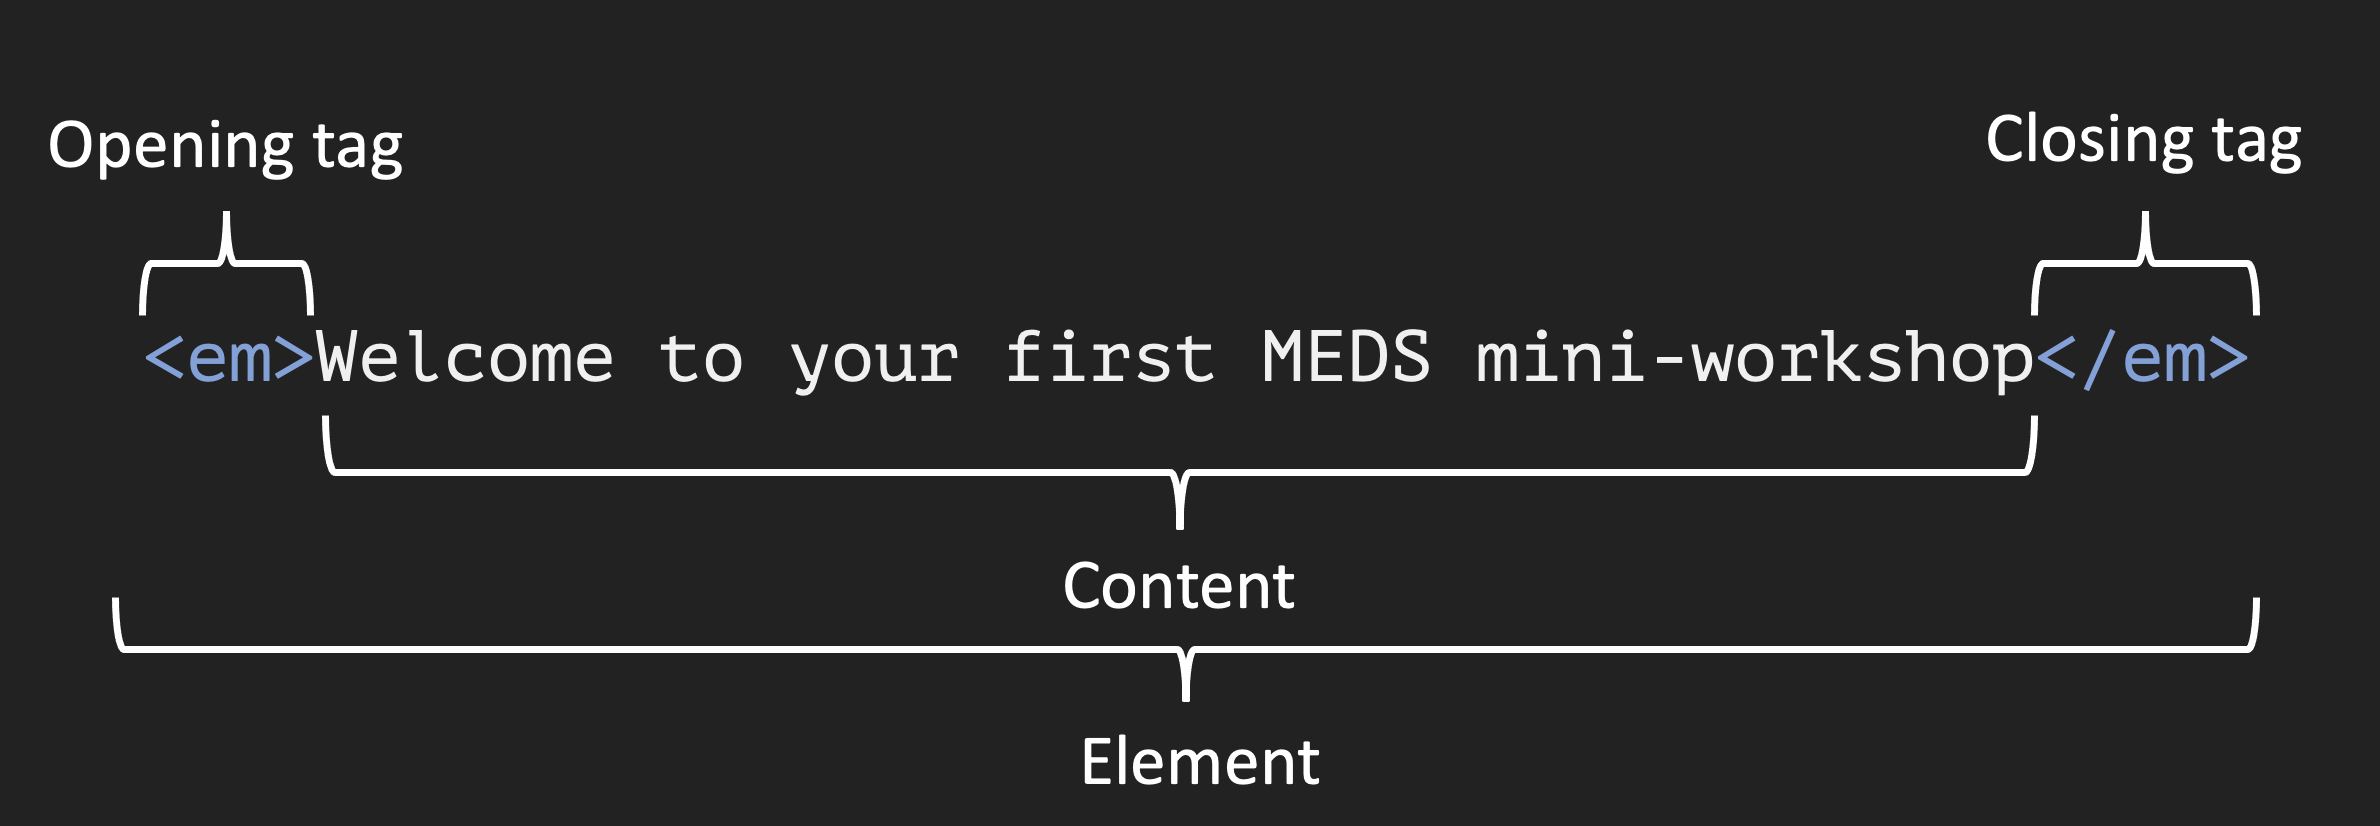
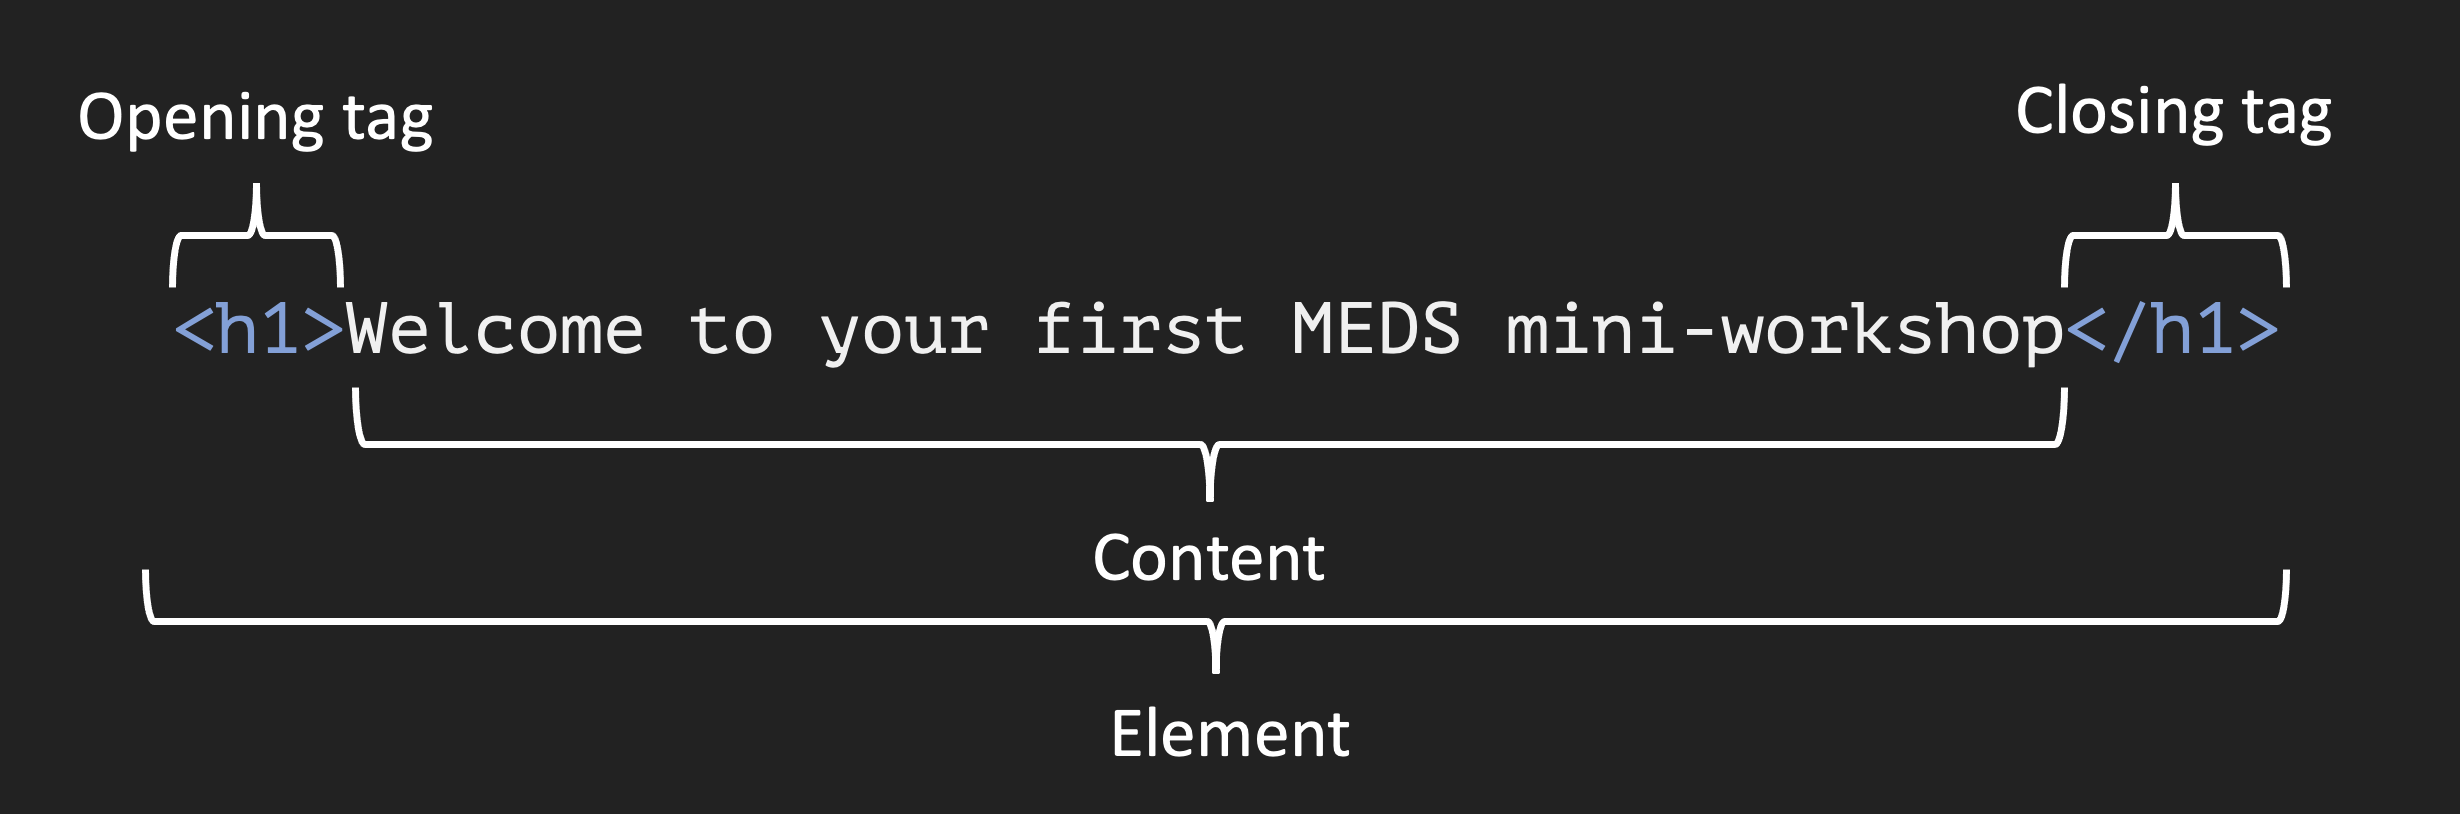
going to remove the github css exploration example and replace it with an example using my distill site. wanted to save progress in case I don't like it in the end...

diff --git a/index.html b/index.html
@@ -34,7 +34,15 @@ class: center, middle, inverse, title-slide
 ---
 ## But without some additional modifications, it can be challenging to make *your* website stand out from the rest. 
 
-In order to make those changes, we need to dive a bit into the world of CSS. Some of you may have already heard of CSS, but what really is it? Let's dive in.
+&lt;br&gt;
+
+.center[
+&lt;img src="img/unique.gif" width="55%" /&gt;
+]
+
+&lt;br&gt;
+
+In order to make those changes, we need to dive a bit into the world of **CSS**. Some of you may have already heard of and/or used CSS -- that's great! We're going to spend a few minutes first learning about what makes a web page...look like a web page, then apply what we learn to our own `{distill}` sites.
 
 ---
 ## HTML &amp; CSS are the building blocks of web pages
@@ -111,14 +119,10 @@ HTML consists of a series of **elements**, comprised of **opening tags** and **c
 &lt;img src="img/element.png" width="60%" /&gt;
 ]
 
-.center[
-&lt;span style="color: #5F9EA0;"&gt;Rendered as:&lt;/span&gt; &lt;em&gt;Welcome to your first MEDS mini-workshop&lt;/em&gt;
-]
-
 &lt;br&gt;
 
 .footnote[
-In R Markdown syntax: `*Welcome to your first MEDS mini-workshop*` --&gt; *Welcome to your first MEDS mini-workshop*
+In R Markdown syntax: `# Welcome to your first MEDS mini-workshop`
 
 Source: [“Getting Started with HTML - Learn Web DEVELOPMENT: MDN.” Learn Web Development | MDN, developer.mozilla.org/en-US/docs/Learn/HTML/Introduction_to_HTML/Getting_started.](https://developer.mozilla.org/en-US/docs/Learn/HTML/Introduction_to_HTML/Getting_started) 
 ]
@@ -137,22 +141,28 @@ You can also *nest* elements. Remember to close out tags from the inside-out to 
 &lt;img src="img/nested_elements.png" width="60%" /&gt;
 ]
 
-.center[
-&lt;span style="color: #5F9EA0;"&gt;Rendered as:&lt;/span&gt; &lt;em&gt;Welcome to your first &lt;strong&gt;MEDS&lt;/strong&gt; mini-workshop&lt;/em&gt;
-]
-
 &lt;br&gt;
 
 .footnote[
-In R Markdown syntax: `*Welcome to your first **MEDS** mini-workshop*` --&gt; *Welcome to your first **MEDS** mini-workshop*
+In R Markdown syntax: `# Welcome to your first **MEDS** mini-workshop` 
 
 Source: [“Getting Started with HTML - Learn Web DEVELOPMENT: MDN.” Learn Web Development | MDN, developer.mozilla.org/en-US/docs/Learn/HTML/Introduction_to_HTML/Getting_started.](https://developer.mozilla.org/en-US/docs/Learn/HTML/Introduction_to_HTML/Getting_started) 
 ]
 
 ---
-## attributes here
+## A *light* introduction to HTML
 
-CONTENT CONTENT CONTENT
+HTML elements can also have **attributes** which contain extra information about the element that will not be rendered as visual content on the web page. Attributes can be used in many powerful ways, but one is to target subsets of elements for styling with CSS.
+
+.center[
+**Anatomy of an attribute:**
+]
+
+&lt;!-- .center[ --&gt;
+&lt;!-- ```{r echo = FALSE, out.width = '60%'} --&gt;
+&lt;!-- knitr::include_graphics("img/attribute.png") --&gt;
+&lt;!-- ``` --&gt;
+&lt;!-- ] --&gt;
 
 ---
 # Some commonly used html elements
@@ -237,19 +247,91 @@ But what's even *more* magical is how easy `{distill}` makes it to customize you
 ]
 
 ---
+## Start by making sure you have a CSS file in your web page repo's root directory
 
-## Resources
+If you do not already have a `.css` file, you can generate one by running the `distill::create_theme()` function in your console as follows:
 
-#### **HTML**
-* [Getting started with HTML, by MDN Web Docs](https://developer.mozilla.org/en-US/docs/Learn/HTML/Introduction_to_HTML/Getting_started)
 
-#### **CSS**
-* [What is CSS?, by MDN Web Docs](https://developer.mozilla.org/en-US/docs/Learn/CSS/First_steps/What_is_CSS)
-* [Distill: Custom CSS Styles](https://rstudio.github.io/distill/website.html#custom-style)
+```r
+# the `name` argument sets the name of the theme file, e.g. `theme.css`
+# the `edit` argument opens an editor (in RStudio) for the theme file
 
-#### **Other**
-* [Google Fonts](https://fonts.google.com/)
-* [Colorpick Eyedropper - Chrome Extention](https://chrome.google.com/webstore/detail/colorpick-eyedropper/ohcpnigalekghcmgcdcenkpelffpdolg?hl=en)
+distill::create_theme(name = "theme", edit = TRUE)
+```
+
+--
+
+This function creates a file named `theme` with the file extension `.css`. Here is where you will define CSS custom properties and/or edit existing default values. You'll notice that there are a series of CSS rules, that should look similar to the example shown earlier (slide 11 - LINK THIS). They take the format:
+
+
+```r
+scope { # think of 'scope' as the 'selector'
+  --some-property:       some-value; # e.g. --code-size:    50px;
+  --another-property:    another-value; # e.g.  --title-color:   #333CFF;
+}
+```
+
+.footnote[
+This content has been adapted from the `{distill}` document on theming. This is a *great* resource for getting started on web page customization. You can find that [here](https://rstudio.github.io/distill/website.html#theming).
+]
+
+---
+## The 'out-of-the-box' `theme.css` file
+
+.center[
+&lt;img src="img/theme_file.png" width="70%" /&gt;
+]
+
+---
+## Apply your theme to your `{distill}` website
+
+Add a theme key to the top-level of your `_site.yaml` configuration file along with the name of your `.css` file (e.g. mine is named `theme.css`). For example:
+
+
+```r
+name: "samanthacsik.github.io"
+title: "Samantha Csik"
+*theme: theme.css
+description: |
+  Samantha Csik
+output_dir: "docs"
+navbar:
+  right:
+    - text: "Home"
+      href: index.html
+    - text: "Publications"
+      href: publications.html
+    - text: "Posts"
+      href: posts.html
+    - text: "Projects"
+      href: projects.html
+    - text: "Teaching"
+      href: teaching.html
+    - text: "Curriculum Vitae"
+      href: CV.html
+output: distill::distill_article
+```
+
+---
+## Edits we'll make today (EDIT THIS)
+
+1. Changing default theme values
+  a. Banner colors
+  b. Font size
+2. Apply a custom Google font(s)
+3. Add your very own custom CSS rules
+4. coder's life hack: drawing inspriation from other distill sties
+
+---
+# Change default theme values
+
+[HTML color picker](https://htmlcolorcodes.com/color-picker/)
+[Colorpick Eyedropper - Chrome Extention](https://chrome.google.com/webstore/detail/colorpick-eyedropper/ohcpnigalekghcmgcdcenkpelffpdolg?hl=en)
+
+---
+## Import &amp; use custom Google Fonts
+
+[Google Fonts](https://fonts.google.com/)
 
 ---
 class: center, middle
